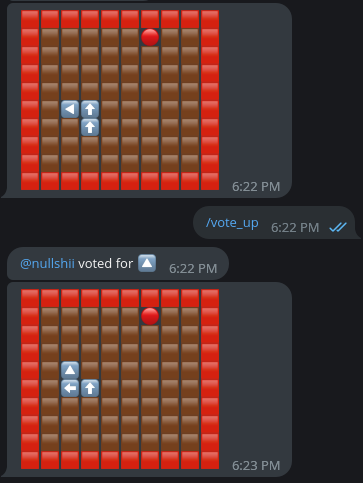
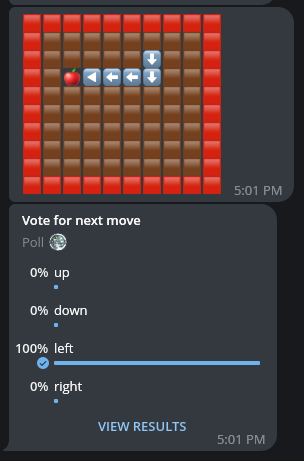
Updated preview and apple

diff --git a/app/Enums/CellType.php b/app/Enums/CellType.php
@@ -6,7 +6,7 @@ enum CellType: string
 {
     case EMPTY = "🟫";
     case WALL = "🟥";
-    case APPLE = "🔴";
+    case APPLE = "🍎";
     case SNAKE_BODY_UP = "⬆";
     case SNAKE_BODY_DOWN = "⬇";
     case SNAKE_BODY_LEFT = "⬅";
